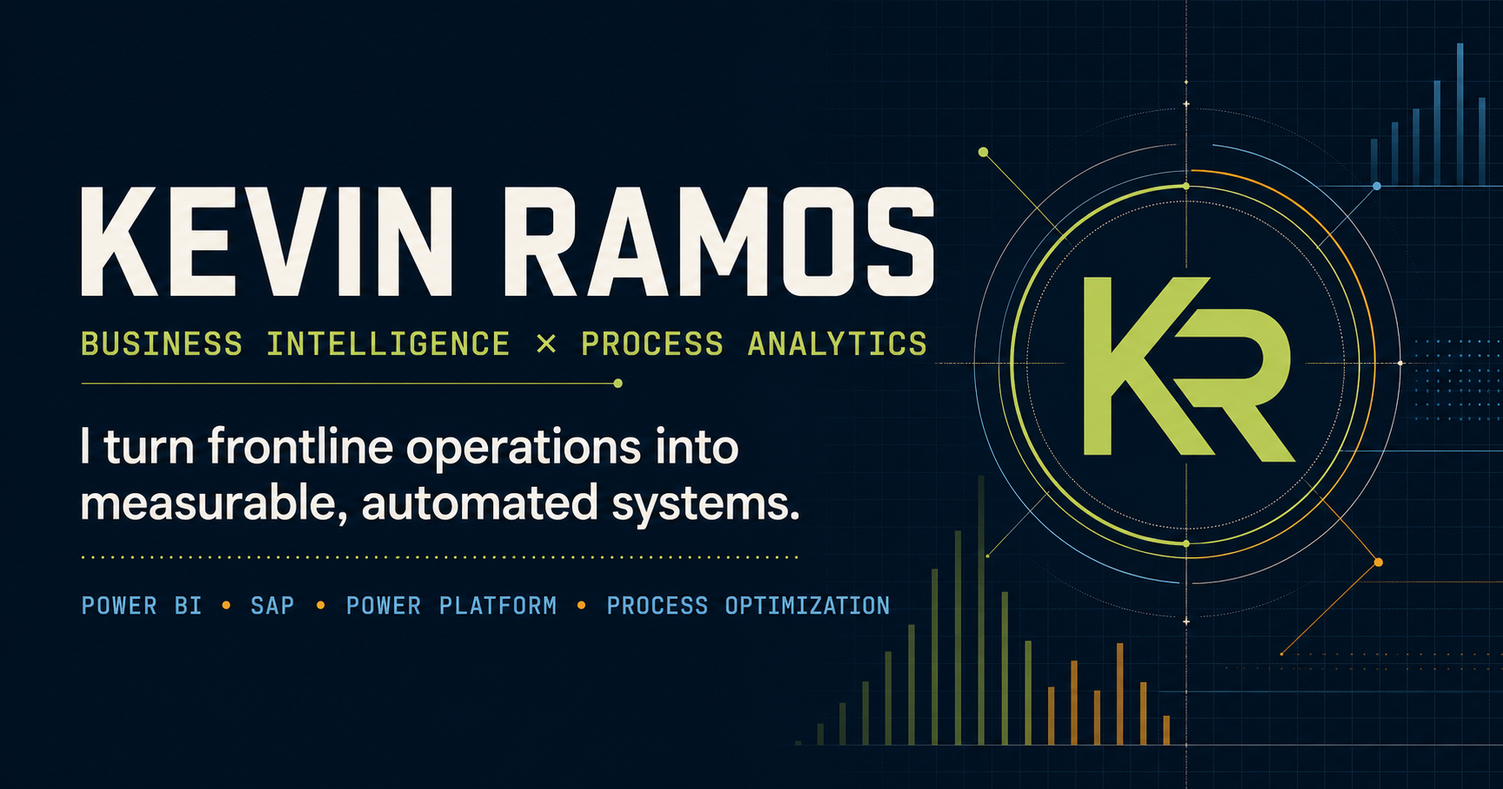
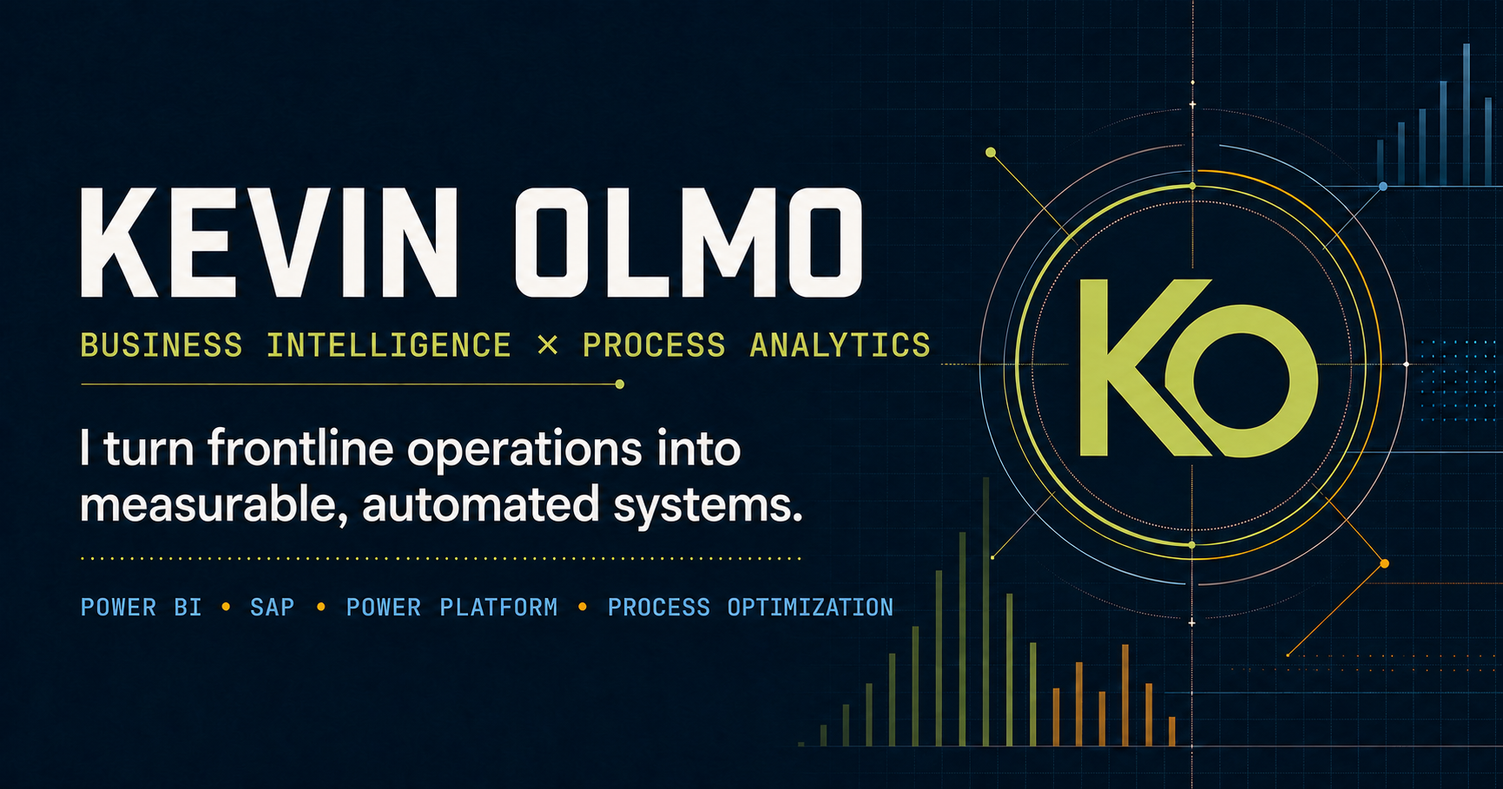
Update KO branding, contact email, and resume

diff --git a/index.html b/index.html
@@ -3,15 +3,15 @@
 <head>
   <meta charset="utf-8">
   <meta name="viewport" content="width=device-width, initial-scale=1">
-  <meta name="description" content="Kevin Ramos' business intelligence, process analytics, Power BI, SAP automation, Power Platform, and operations improvement portfolio.">
+  <meta name="description" content="Kevin Olmo's business intelligence, process analytics, Power BI, SAP automation, Power Platform, and operations improvement portfolio.">
   <meta name="theme-color" content="#081b24">
-  <meta property="og:title" content="Kevin Ramos | Business Intelligence Portfolio">
-  <meta property="og:description" content="Kevin Ramos' business intelligence, process analytics, Power BI, SAP automation, Power Platform, and operations improvement portfolio.">
+  <meta property="og:title" content="Kevin Olmo | Business Intelligence Portfolio">
+  <meta property="og:description" content="Kevin Olmo's business intelligence, process analytics, Power BI, SAP automation, Power Platform, and operations improvement portfolio.">
   <meta property="og:type" content="website">
   <meta property="og:image" content="https://kevolmo.github.io/portfolio/og.png">
-  <title>Kevin Ramos | Business Intelligence Portfolio</title>
+  <title>Kevin Olmo | Business Intelligence Portfolio</title>
   <link rel="icon" href="/portfolio/favicon.svg">
   <link rel="stylesheet" href="/portfolio/styles.css">
 </head>
-<body><link rel="preload" as="image" href="/portfolio/kevin-ramos-portrait.png"/><main><header class="site-header"><a class="brand" href="#top" aria-label="Kevin Ramos, home"><span class="brand-mark">KR</span><span class="brand-copy">Intelligence × Process Analytics</span></a><nav aria-label="Primary navigation"><a href="#work">Work</a><a href="/portfolio/beyond-operations">Research</a><a href="#approach">Approach</a><a href="/portfolio/about">My journey</a><a href="/portfolio/Kevin_Ramos_Business_Intelligence_Resume.pdf" target="_blank">Resume</a><a href="https://www.linkedin.com/in/kevinramosolmo/" target="_blank" rel="noreferrer">LinkedIn</a><a class="nav-cta" href="mailto:kevina.ramos@outlook.com">Let&#x27;s talk <span aria-hidden="true">↗</span></a></nav></header><section class="hero" id="top"><div class="hero-grid" aria-hidden="true"></div><div class="hero-copy"><p class="eyebrow"><span></span> Business intelligence &amp; process analytics</p><h1>I turn frontline operations into <em>measurable, automated</em> systems.</h1><p class="hero-intro">I use Power BI, operational data, SAP automation, Power Platform, and process analysis to turn complex workflows into reporting systems leaders can trust and teams can use.</p><div class="hero-actions"><a class="button primary" href="#work">Explore selected work <span>↓</span></a><a class="button secondary" href="/portfolio/Kevin_Ramos_Business_Intelligence_Resume.pdf" target="_blank">View résumé <span>↗</span></a><a class="button secondary" href="mailto:kevina.ramos@outlook.com">Start a conversation <span>↗</span></a></div></div><aside class="hero-panel" aria-label="Selected outcomes"><p class="panel-label">Selected outcomes</p><div class="metric-row"><strong>~400</strong><span>repair-station lines processed during a post-outage recovery day</span></div><div class="metric-row"><strong>2,742</strong><span>digitized forklift requests tracked across warehouse teams</span></div><div class="metric-row"><strong>100%</strong><span>15-minute WIP interval compliance consistently achieved in high-volume operations</span></div><div class="signal-line"><span></span><span></span><span></span><span></span><span></span></div></aside></section><section class="proof-strip" aria-label="Areas of expertise"><span>Power BI</span><i>•</i><span>Data Analytics</span><i>•</i><span>Process Analytics</span><i>•</i><span>Data Modeling</span><i>•</i><span>Power Platform</span><i>•</i><span>Process Optimization</span></section><section class="recruiter-brief" aria-labelledby="recruiter-title"><div class="recruiter-intro"><p class="eyebrow"><span></span> Recruiter brief</p><h2 id="recruiter-title">A BI leader who can own the system behind the dashboard.</h2><p>I combine an M.S. in Business Intelligence with frontline operations leadership. That means I can move from requirements and process discovery through modeling, reporting, automation, adoption, and measurable operating change.</p><div class="recruiter-actions"><a href="/portfolio/Kevin_Ramos_Business_Intelligence_Resume.pdf" target="_blank">View recruiter résumé <span>↗</span></a><a href="mailto:kevina.ramos@outlook.com">Contact Kevin <span>↗</span></a></div></div><div class="fit-grid"><article><span>Best-fit roles</span><strong>Senior BI Analyst<br/>Operations Analytics Manager<br/>Process Improvement Manager</strong></article><article><span>Core stack</span><strong>Power BI · DAX · Power Query · SQL · SAP · Power Apps · SharePoint · Excel</strong></article><article><span>Operating scope</span><strong>50–70 associates · 3 supervisors · 5 warehouse departments</strong></article><article><span>Distinctive value</span><strong>Requirements → model → workflow → adoption → business result</strong></article></div></section><section class="career-path" aria-labelledby="career-path-title"><div><p class="eyebrow light"><span></span> Career path</p><h2 id="career-path-title">Built from operations. Expanded through intelligence.</h2></div><ol><li><span>2024–Present</span><strong>Logistics Supervisor &amp; BI Transformation Lead</strong><p>Global aerospace manufacturing · Power BI, SAP automation, Power Platform, team development</p></li><li><span>2023–2024</span><strong>Scrum Master · BI Delivery</strong><p>Cross-functional reporting delivery, stakeholder alignment, validation, and executive communication</p></li><li><span>2022–2023</span><strong>Operations Manager</strong><p>Amazon fulfillment · labor planning, WIP control, coaching, inventory accuracy, and KPI execution</p></li><li><span>2015–2022</span><strong>Operations &amp; Implementation Foundation</strong><p>Progressive leadership across implementation, distribution, warehouse operations, and frontline management</p></li></ol></section><section class="work-section" id="work"><div class="section-heading"><div><p class="eyebrow"><span></span> Selected work</p><h2>Built close to the work.<br/>Designed for the business.</h2></div><p>Each project started with an operating constraint—not a technology. The tools came second, selected and shaped around how people actually work.</p></div><div class="case-list"><article class="case-card lime"><div class="case-index">01</div><div class="case-main"><p class="case-category">SAP automation · Operational resilience</p><h3>Replacing a fragile multi-transaction routine with one guided scan flow.</h3><p class="case-description">Associates can scan multiple orders, parts, batches, and required serial numbers in one session. The interface automates MB11 and LT06, pauses for bin confirmation, completes LT12, and returns an LT23 summary—supporting 100 orders by roughly noon–1 p.m. instead of near day-end.</p><div class="tag-list"><span>SAP</span><span>VBScript</span><span>Workflow design</span><span>Training enablement</span></div><a class="case-link" href="/portfolio/sap-automation">View full case study <span aria-hidden="true">→</span></a></div><div class="case-result"><div class="result-visual" aria-hidden="true"><span></span><span></span><span></span><span></span><span></span></div><strong>&lt;10 sec / line</strong><p>estimated guided processing vs 30–60 seconds manually</p></div></article><article class="case-card amber"><div class="case-index">02</div><div class="case-main"><p class="case-category">Power Platform · Safety &amp; coordination</p><h3>Turning forklift service into a visible, asynchronous queue.</h3><p class="case-description">A Power Apps experience backed by SharePoint replaced operator searches and workflow interruptions with a visible queue. The log records a 19-minute median completion time, while associates keep picking and become the natural spotter when needed. The operation has been reported incident-free since launch.</p><div class="tag-list"><span>Power Apps</span><span>SharePoint</span><span>Process redesign</span><span>Analytics</span></div><a class="case-link" href="/portfolio/forklift-request-system">View full case study <span aria-hidden="true">→</span></a></div><div class="case-result"><div class="result-visual" aria-hidden="true"><span></span><span></span><span></span><span></span><span></span></div><strong>2,742</strong><p>requests logged; 2,564 completed</p></div></article><article class="case-card blue"><div class="case-index">03</div><div class="case-main"><p class="case-category">Business intelligence · Decision support</p><h3>One reporting architecture for the entire warehouse.</h3><p class="case-description">Where teams once relied on separate reports and no common performance view, a nearly automated Power BI suite now gives supervisors and managers one place to review prior-day results, trends, and exceptions.</p><div class="tag-list"><span>Power BI</span><span>DAX</span><span>Power Query</span><span>Data modeling</span></div><a class="case-link" href="/portfolio/warehouse-intelligence">View full case study <span aria-hidden="true">→</span></a></div><div class="case-result"><div class="result-visual" aria-hidden="true"><span></span><span></span><span></span><span></span><span></span></div><strong>5 departments</strong><p>using one shared, refreshed KPI framework</p></div></article></div></section><section class="approach-section" id="approach"><div class="approach-lead"><p class="eyebrow light"><span></span> How I work</p><h2>The system is more than the dashboard.</h2><p>Sustainable improvement connects data, process, tools, and people. I work across all four—translating frontline reality into systems leaders can trust and teams can actually use.</p></div><div class="capability-grid"><article><span class="cap-number">01</span><h3>Business intelligence</h3><p>KPI architecture, semantic models, DAX, Power Query, executive reporting, operational analytics, and data-quality controls.</p></article><article><span class="cap-number">02</span><h3>Process automation</h3><p>SAP GUI scripting, Power Apps, SharePoint workflows, guided interfaces, exception handling, and human-centered tool design.</p></article><article><span class="cap-number">03</span><h3>Operational excellence</h3><p>Standard work, WIP control, root-cause thinking, audit programs, compliance, process governance, and continuous improvement.</p></article><article><span class="cap-number">04</span><h3>Operations leadership</h3><p>High-volume logistics, workforce planning, frontline coaching, cross-functional delivery, training, and performance management.</p></article></div></section><section class="system-section"><div class="system-visual" aria-label="Operational system connecting knowledge, execution, controls, and improvement"><div class="system-core"><span>SharePoint</span><strong>Operating hub</strong></div><div class="orbit orbit-one">Knowledge</div><div class="orbit orbit-two">Execution</div><div class="orbit orbit-three">Controls</div><div class="orbit orbit-four">Improvement</div></div><div class="system-copy"><p class="eyebrow"><span></span> Beyond individual tools</p><h2>A departmental operating system for consistent execution.</h2><p>I organized job aids, process libraries, training videos, schedules, control logs, communications, audit tools, working sheets, and automation assets into a SharePoint-centered environment built for daily use.</p><ul><li>Standard work and SAP job aids</li><li>Training and cross-skilling resources</li><li>Compliance, audit, and exception controls</li><li>Communication and process governance</li></ul></div></section><section class="transformation-section"><div class="transformation-heading"><p class="eyebrow"><span></span> Leadership through data</p><h2>From knowledge silos to a self-sustaining team.</h2></div><div class="transformation-story"><p class="transformation-lead">I inherited a team where information was often held by individuals, roles were divided by task and business line, and people hesitated to speak openly about mistakes. The transformation began by making the work—and the knowledge behind it—shared.</p><div class="transformation-flow" aria-label="Transformation from reactive work to data-informed improvement"><div><span>Before</span><strong>Fragmented ownership</strong><p>Knowledge silos, narrow task boundaries, separate business-line thinking, and limited visibility.</p></div><i aria-hidden="true">→</i><div><span>Build</span><strong>Shared operating system</strong><p>Cross-training, common KPIs, standups, job aids, workflows, and visible process controls.</p></div><i aria-hidden="true">→</i><div><span>Today</span><strong>Distributed ownership</strong><p>A team that redirects to business need, shares lessons, acts independently, and escalates exceptions.</p></div></div><div class="leadership-evidence" aria-label="Evidence of leadership transformation"><article><span>01</span><strong>All 14 team members became cross-functional</strong><p>What began as one person per designated area became full-team coverage across repairs, ticketing, repair-order and distribution picking, urgent demand, and workplace controls.</p></article><article><span>02</span><strong>Standups began producing solutions</strong><p>A unit-of-measure discussion prompted an associate to share a calculation spreadsheet with the entire team—turning one lesson into reusable standard work.</p></article><article><span>03</span><strong>Capability created mobility</strong><p>Team members progressed into Master Scheduling, Operations Specialist, higher-level roles, and a developing lead pipeline.</p></article></div><div class="decision-rhythm"><div><p class="case-category">Daily management rhythm</p><h3>Three questions turn yesterday&#x27;s data into today&#x27;s action.</h3></div><ol><li><span>01</span><p>Did the person assigned to each area perform as expected?</p></li><li><span>02</span><p>Did the workload decrease compared with the previous day?</p></li><li><span>03</span><p>Did the operation achieve a successful KPI day?</p></li></ol></div><aside class="adoption-story"><div><p class="case-category">Adoption signal · Push became pull</p><h3>Trust was earned by making the work easier.</h3></div><p>Dashboards, SharePoint, SAP helpers, and Power Apps initially met skepticism. Consistent delivery changed the conversation: users began requesting features, forklift requests became part of daily work, and another team adopted a similar SharePoint pattern. The tools moved from something introduced to the team to something the team helped improve.</p></aside></div></section><section class="beyond-preview"><div class="beyond-preview-heading"><p class="eyebrow light"><span></span> Beyond the current operation</p><h2>The setting changes.<br/>The analytical method travels.</h2><p>My graduate work extends into product strategy, market analysis, enterprise data management, forecasting, data mining, governance, systems thinking, and decision communication.</p><a href="/portfolio/beyond-operations">Explore research &amp; academic work <span>→</span></a></div><article class="google-preview-card"><div class="google-preview-top"><span>Independent graduate case study</span><strong>Google / Data governance</strong></div><h3>An enterprise data-governance strategy examined through business intelligence.</h3><p>An academic capstone connecting PESTEL and SWOT research, governance gap analysis, solution architecture, implementation planning, monitoring, and cost-benefit modeling.</p><div class="research-methods"><span>Governance</span><span>Risk analysis</span><span>CRISP-DM</span><span>Cost-benefit</span></div><div class="google-signal" aria-hidden="true"><i></i><i></i><i></i><i></i><i></i></div></article></section><section class="journey-preview" aria-labelledby="journey-preview-title"><div class="journey-preview-copy"><p class="eyebrow"><span></span> The person behind the systems</p><h2 id="journey-preview-title">A career built at the intersection of people, process, and data.</h2><p>A broad business foundation taught me to understand stakeholders and communicate value. Operations taught me to lead under pressure. Business intelligence gave me the tools to make complex work visible, measurable, and easier to improve.</p><a href="/portfolio/about">Explore my journey <span aria-hidden="true">→</span></a></div><ol class="journey-preview-path" aria-label="Kevin Ramos career journey"><li><span>01</span><div><strong>Business foundation</strong><p>Stakeholder communication, commercial thinking, and value.</p></div></li><li><span>02</span><div><strong>Operational leadership</strong><p>High-volume execution, team development, and accountability.</p></div></li><li><span>03</span><div><strong>Analytical discipline</strong><p>Business intelligence, reporting, governance, and decision support.</p></div></li><li><span>04</span><div><strong>Transformation practice</strong><p>Connecting insight to workflows, adoption, and durable results.</p></div></li></ol></section><section class="about-section" id="about"><div class="about-identity"><p class="eyebrow light"><span></span> About</p><h2>Operator&#x27;s instinct.<br/>Analyst&#x27;s discipline.</h2><figure class="about-portrait"><img src="/portfolio/kevin-ramos-portrait.png" alt="Kevin Ramos, business intelligence and process analytics leader"/></figure></div><div class="about-copy"><p class="about-lead">I&#x27;m Kevin Ramos, an Orlando-based business intelligence and process analytics professional who builds solutions from inside the work—not from a distance.</p><p>My background spans business intelligence, data gathering, reporting, process analysis, high-volume logistics leadership, automation, and process governance. That range lets me see where data breaks down, where work gets harder than it needs to be, and what it takes to make a better system stick.</p><a class="about-journey-link" href="/portfolio/about">Read the full story <span aria-hidden="true">→</span></a><div class="education"><div><span>Education</span><strong>MS, Business Intelligence</strong></div><div><span>Undergraduate education</span><strong>Bachelor of Science</strong></div><div><span>Credential</span><strong>Google Data Analytics Certificate</strong></div><div><span>Graduate focus</span><strong>Enterprise data management · ETL · dimensional modeling · forecasting · data mining · process analysis</strong></div></div></div></section><section class="contact-section"><p class="eyebrow"><span></span> What&#x27;s next</p><h2>Let&#x27;s build a better operating system.</h2><p>Open to business intelligence, data analytics, process analytics, reporting, and process-optimization opportunities.</p><div class="contact-links"><a href="mailto:kevina.ramos@outlook.com">Email <span>↗</span></a><a href="tel:+17872343668">787-234-3668 <span>↗</span></a><a href="/portfolio/Kevin_Ramos_Business_Intelligence_Resume.pdf" target="_blank">Résumé <span>↗</span></a><a href="https://www.linkedin.com/in/kevinramosolmo/" target="_blank" rel="noreferrer">LinkedIn <span>↗</span></a></div></section><footer><span>© 2026 Kevin Ramos</span><span>Intelligence × Analytics × Improvement</span><a href="#top">Back to top ↑</a></footer></main></body>
+<body><link rel="preload" as="image" href="/portfolio/kevin-olmo-portrait.png"/><main><header class="site-header"><a class="brand" href="#top" aria-label="Kevin Olmo, home"><span class="brand-mark">KO</span><span class="brand-copy">Intelligence × Process Analytics</span></a><nav aria-label="Primary navigation"><a href="#work">Work</a><a href="/portfolio/beyond-operations">Research</a><a href="#approach">Approach</a><a href="/portfolio/about">My journey</a><a href="/portfolio/Kevin_Olmo_Business_Intelligence_Resume.pdf" target="_blank">Resume</a><a href="https://www.linkedin.com/in/kevinramosolmo/" target="_blank" rel="noreferrer">LinkedIn</a><a class="nav-cta" href="mailto:karamosolmo@alumni.fullsail.edu">Let&#x27;s talk <span aria-hidden="true">↗</span></a></nav></header><section class="hero" id="top"><div class="hero-grid" aria-hidden="true"></div><div class="hero-copy"><p class="eyebrow"><span></span> Business intelligence &amp; process analytics</p><h1>I turn frontline operations into <em>measurable, automated</em> systems.</h1><p class="hero-intro">I use Power BI, operational data, SAP automation, Power Platform, and process analysis to turn complex workflows into reporting systems leaders can trust and teams can use.</p><div class="hero-actions"><a class="button primary" href="#work">Explore selected work <span>↓</span></a><a class="button secondary" href="/portfolio/Kevin_Olmo_Business_Intelligence_Resume.pdf" target="_blank">View résumé <span>↗</span></a><a class="button secondary" href="mailto:karamosolmo@alumni.fullsail.edu">Start a conversation <span>↗</span></a></div></div><aside class="hero-panel" aria-label="Selected outcomes"><p class="panel-label">Selected outcomes</p><div class="metric-row"><strong>~400</strong><span>repair-station lines processed during a post-outage recovery day</span></div><div class="metric-row"><strong>2,742</strong><span>digitized forklift requests tracked across warehouse teams</span></div><div class="metric-row"><strong>100%</strong><span>15-minute WIP interval compliance consistently achieved in high-volume operations</span></div><div class="signal-line"><span></span><span></span><span></span><span></span><span></span></div></aside></section><section class="proof-strip" aria-label="Areas of expertise"><span>Power BI</span><i>•</i><span>Data Analytics</span><i>•</i><span>Process Analytics</span><i>•</i><span>Data Modeling</span><i>•</i><span>Power Platform</span><i>•</i><span>Process Optimization</span></section><section class="recruiter-brief" aria-labelledby="recruiter-title"><div class="recruiter-intro"><p class="eyebrow"><span></span> Recruiter brief</p><h2 id="recruiter-title">A BI leader who can own the system behind the dashboard.</h2><p>I combine an M.S. in Business Intelligence with frontline operations leadership. That means I can move from requirements and process discovery through modeling, reporting, automation, adoption, and measurable operating change.</p><div class="recruiter-actions"><a href="/portfolio/Kevin_Olmo_Business_Intelligence_Resume.pdf" target="_blank">View recruiter résumé <span>↗</span></a><a href="mailto:karamosolmo@alumni.fullsail.edu">Contact Kevin <span>↗</span></a></div></div><div class="fit-grid"><article><span>Best-fit roles</span><strong>Senior BI Analyst<br/>Operations Analytics Manager<br/>Process Improvement Manager</strong></article><article><span>Core stack</span><strong>Power BI · DAX · Power Query · SQL · SAP · Power Apps · SharePoint · Excel</strong></article><article><span>Operating scope</span><strong>50–70 associates · 3 supervisors · 5 warehouse departments</strong></article><article><span>Distinctive value</span><strong>Requirements → model → workflow → adoption → business result</strong></article></div></section><section class="career-path" aria-labelledby="career-path-title"><div><p class="eyebrow light"><span></span> Career path</p><h2 id="career-path-title">Built from operations. Expanded through intelligence.</h2></div><ol><li><span>2024–Present</span><strong>Logistics Supervisor &amp; BI Transformation Lead</strong><p>Global aerospace manufacturing · Power BI, SAP automation, Power Platform, team development</p></li><li><span>2023–2024</span><strong>Scrum Master · BI Delivery</strong><p>Cross-functional reporting delivery, stakeholder alignment, validation, and executive communication</p></li><li><span>2022–2023</span><strong>Operations Manager</strong><p>Amazon fulfillment · labor planning, WIP control, coaching, inventory accuracy, and KPI execution</p></li><li><span>2015–2022</span><strong>Operations &amp; Implementation Foundation</strong><p>Progressive leadership across implementation, distribution, warehouse operations, and frontline management</p></li></ol></section><section class="work-section" id="work"><div class="section-heading"><div><p class="eyebrow"><span></span> Selected work</p><h2>Built close to the work.<br/>Designed for the business.</h2></div><p>Each project started with an operating constraint—not a technology. The tools came second, selected and shaped around how people actually work.</p></div><div class="case-list"><article class="case-card lime"><div class="case-index">01</div><div class="case-main"><p class="case-category">SAP automation · Operational resilience</p><h3>Replacing a fragile multi-transaction routine with one guided scan flow.</h3><p class="case-description">Associates can scan multiple orders, parts, batches, and required serial numbers in one session. The interface automates MB11 and LT06, pauses for bin confirmation, completes LT12, and returns an LT23 summary—supporting 100 orders by roughly noon–1 p.m. instead of near day-end.</p><div class="tag-list"><span>SAP</span><span>VBScript</span><span>Workflow design</span><span>Training enablement</span></div><a class="case-link" href="/portfolio/sap-automation">View full case study <span aria-hidden="true">→</span></a></div><div class="case-result"><div class="result-visual" aria-hidden="true"><span></span><span></span><span></span><span></span><span></span></div><strong>&lt;10 sec / line</strong><p>estimated guided processing vs 30–60 seconds manually</p></div></article><article class="case-card amber"><div class="case-index">02</div><div class="case-main"><p class="case-category">Power Platform · Safety &amp; coordination</p><h3>Turning forklift service into a visible, asynchronous queue.</h3><p class="case-description">A Power Apps experience backed by SharePoint replaced operator searches and workflow interruptions with a visible queue. The log records a 19-minute median completion time, while associates keep picking and become the natural spotter when needed. The operation has been reported incident-free since launch.</p><div class="tag-list"><span>Power Apps</span><span>SharePoint</span><span>Process redesign</span><span>Analytics</span></div><a class="case-link" href="/portfolio/forklift-request-system">View full case study <span aria-hidden="true">→</span></a></div><div class="case-result"><div class="result-visual" aria-hidden="true"><span></span><span></span><span></span><span></span><span></span></div><strong>2,742</strong><p>requests logged; 2,564 completed</p></div></article><article class="case-card blue"><div class="case-index">03</div><div class="case-main"><p class="case-category">Business intelligence · Decision support</p><h3>One reporting architecture for the entire warehouse.</h3><p class="case-description">Where teams once relied on separate reports and no common performance view, a nearly automated Power BI suite now gives supervisors and managers one place to review prior-day results, trends, and exceptions.</p><div class="tag-list"><span>Power BI</span><span>DAX</span><span>Power Query</span><span>Data modeling</span></div><a class="case-link" href="/portfolio/warehouse-intelligence">View full case study <span aria-hidden="true">→</span></a></div><div class="case-result"><div class="result-visual" aria-hidden="true"><span></span><span></span><span></span><span></span><span></span></div><strong>5 departments</strong><p>using one shared, refreshed KPI framework</p></div></article></div></section><section class="approach-section" id="approach"><div class="approach-lead"><p class="eyebrow light"><span></span> How I work</p><h2>The system is more than the dashboard.</h2><p>Sustainable improvement connects data, process, tools, and people. I work across all four—translating frontline reality into systems leaders can trust and teams can actually use.</p></div><div class="capability-grid"><article><span class="cap-number">01</span><h3>Business intelligence</h3><p>KPI architecture, semantic models, DAX, Power Query, executive reporting, operational analytics, and data-quality controls.</p></article><article><span class="cap-number">02</span><h3>Process automation</h3><p>SAP GUI scripting, Power Apps, SharePoint workflows, guided interfaces, exception handling, and human-centered tool design.</p></article><article><span class="cap-number">03</span><h3>Operational excellence</h3><p>Standard work, WIP control, root-cause thinking, audit programs, compliance, process governance, and continuous improvement.</p></article><article><span class="cap-number">04</span><h3>Operations leadership</h3><p>High-volume logistics, workforce planning, frontline coaching, cross-functional delivery, training, and performance management.</p></article></div></section><section class="system-section"><div class="system-visual" aria-label="Operational system connecting knowledge, execution, controls, and improvement"><div class="system-core"><span>SharePoint</span><strong>Operating hub</strong></div><div class="orbit orbit-one">Knowledge</div><div class="orbit orbit-two">Execution</div><div class="orbit orbit-three">Controls</div><div class="orbit orbit-four">Improvement</div></div><div class="system-copy"><p class="eyebrow"><span></span> Beyond individual tools</p><h2>A departmental operating system for consistent execution.</h2><p>I organized job aids, process libraries, training videos, schedules, control logs, communications, audit tools, working sheets, and automation assets into a SharePoint-centered environment built for daily use.</p><ul><li>Standard work and SAP job aids</li><li>Training and cross-skilling resources</li><li>Compliance, audit, and exception controls</li><li>Communication and process governance</li></ul></div></section><section class="transformation-section"><div class="transformation-heading"><p class="eyebrow"><span></span> Leadership through data</p><h2>From knowledge silos to a self-sustaining team.</h2></div><div class="transformation-story"><p class="transformation-lead">I inherited a team where information was often held by individuals, roles were divided by task and business line, and people hesitated to speak openly about mistakes. The transformation began by making the work—and the knowledge behind it—shared.</p><div class="transformation-flow" aria-label="Transformation from reactive work to data-informed improvement"><div><span>Before</span><strong>Fragmented ownership</strong><p>Knowledge silos, narrow task boundaries, separate business-line thinking, and limited visibility.</p></div><i aria-hidden="true">→</i><div><span>Build</span><strong>Shared operating system</strong><p>Cross-training, common KPIs, standups, job aids, workflows, and visible process controls.</p></div><i aria-hidden="true">→</i><div><span>Today</span><strong>Distributed ownership</strong><p>A team that redirects to business need, shares lessons, acts independently, and escalates exceptions.</p></div></div><div class="leadership-evidence" aria-label="Evidence of leadership transformation"><article><span>01</span><strong>All 14 team members became cross-functional</strong><p>What began as one person per designated area became full-team coverage across repairs, ticketing, repair-order and distribution picking, urgent demand, and workplace controls.</p></article><article><span>02</span><strong>Standups began producing solutions</strong><p>A unit-of-measure discussion prompted an associate to share a calculation spreadsheet with the entire team—turning one lesson into reusable standard work.</p></article><article><span>03</span><strong>Capability created mobility</strong><p>Team members progressed into Master Scheduling, Operations Specialist, higher-level roles, and a developing lead pipeline.</p></article></div><div class="decision-rhythm"><div><p class="case-category">Daily management rhythm</p><h3>Three questions turn yesterday&#x27;s data into today&#x27;s action.</h3></div><ol><li><span>01</span><p>Did the person assigned to each area perform as expected?</p></li><li><span>02</span><p>Did the workload decrease compared with the previous day?</p></li><li><span>03</span><p>Did the operation achieve a successful KPI day?</p></li></ol></div><aside class="adoption-story"><div><p class="case-category">Adoption signal · Push became pull</p><h3>Trust was earned by making the work easier.</h3></div><p>Dashboards, SharePoint, SAP helpers, and Power Apps initially met skepticism. Consistent delivery changed the conversation: users began requesting features, forklift requests became part of daily work, and another team adopted a similar SharePoint pattern. The tools moved from something introduced to the team to something the team helped improve.</p></aside></div></section><section class="beyond-preview"><div class="beyond-preview-heading"><p class="eyebrow light"><span></span> Beyond the current operation</p><h2>The setting changes.<br/>The analytical method travels.</h2><p>My graduate work extends into product strategy, market analysis, enterprise data management, forecasting, data mining, governance, systems thinking, and decision communication.</p><a href="/portfolio/beyond-operations">Explore research &amp; academic work <span>→</span></a></div><article class="google-preview-card"><div class="google-preview-top"><span>Independent graduate case study</span><strong>Google / Data governance</strong></div><h3>An enterprise data-governance strategy examined through business intelligence.</h3><p>An academic capstone connecting PESTEL and SWOT research, governance gap analysis, solution architecture, implementation planning, monitoring, and cost-benefit modeling.</p><div class="research-methods"><span>Governance</span><span>Risk analysis</span><span>CRISP-DM</span><span>Cost-benefit</span></div><div class="google-signal" aria-hidden="true"><i></i><i></i><i></i><i></i><i></i></div></article></section><section class="journey-preview" aria-labelledby="journey-preview-title"><div class="journey-preview-copy"><p class="eyebrow"><span></span> The person behind the systems</p><h2 id="journey-preview-title">A career built at the intersection of people, process, and data.</h2><p>A broad business foundation taught me to understand stakeholders and communicate value. Operations taught me to lead under pressure. Business intelligence gave me the tools to make complex work visible, measurable, and easier to improve.</p><a href="/portfolio/about">Explore my journey <span aria-hidden="true">→</span></a></div><ol class="journey-preview-path" aria-label="Kevin Olmo career journey"><li><span>01</span><div><strong>Business foundation</strong><p>Stakeholder communication, commercial thinking, and value.</p></div></li><li><span>02</span><div><strong>Operational leadership</strong><p>High-volume execution, team development, and accountability.</p></div></li><li><span>03</span><div><strong>Analytical discipline</strong><p>Business intelligence, reporting, governance, and decision support.</p></div></li><li><span>04</span><div><strong>Transformation practice</strong><p>Connecting insight to workflows, adoption, and durable results.</p></div></li></ol></section><section class="about-section" id="about"><div class="about-identity"><p class="eyebrow light"><span></span> About</p><h2>Operator&#x27;s instinct.<br/>Analyst&#x27;s discipline.</h2><figure class="about-portrait"><img src="/portfolio/kevin-olmo-portrait.png" alt="Kevin Olmo, business intelligence and process analytics leader"/></figure></div><div class="about-copy"><p class="about-lead">I&#x27;m Kevin Olmo, an Orlando-based business intelligence and process analytics professional who builds solutions from inside the work—not from a distance.</p><p>My background spans business intelligence, data gathering, reporting, process analysis, high-volume logistics leadership, automation, and process governance. That range lets me see where data breaks down, where work gets harder than it needs to be, and what it takes to make a better system stick.</p><a class="about-journey-link" href="/portfolio/about">Read the full story <span aria-hidden="true">→</span></a><div class="education"><div><span>Education</span><strong>MS, Business Intelligence</strong></div><div><span>Undergraduate education</span><strong>Bachelor of Science</strong></div><div><span>Credential</span><strong>Google Data Analytics Certificate</strong></div><div><span>Graduate focus</span><strong>Enterprise data management · ETL · dimensional modeling · forecasting · data mining · process analysis</strong></div></div></div></section><section class="contact-section"><p class="eyebrow"><span></span> What&#x27;s next</p><h2>Let&#x27;s build a better operating system.</h2><p>Open to business intelligence, data analytics, process analytics, reporting, and process-optimization opportunities.</p><div class="contact-links"><a href="mailto:karamosolmo@alumni.fullsail.edu">Email <span>↗</span></a><a href="tel:+17872343668">787-234-3668 <span>↗</span></a><a href="/portfolio/Kevin_Olmo_Business_Intelligence_Resume.pdf" target="_blank">Résumé <span>↗</span></a><a href="https://www.linkedin.com/in/kevinramosolmo/" target="_blank" rel="noreferrer">LinkedIn <span>↗</span></a></div></section><footer><span>© 2026 Kevin Olmo</span><span>Intelligence × Analytics × Improvement</span><a href="#top">Back to top ↑</a></footer></main></body>
 </html>

diff --git a/README.md b/README.md
@@ -1,3 +1,3 @@
-# Kevin Ramos — Business Intelligence Portfolio
+# Kevin Olmo — Business Intelligence Portfolio
 
 Static portfolio published with GitHub Pages.
